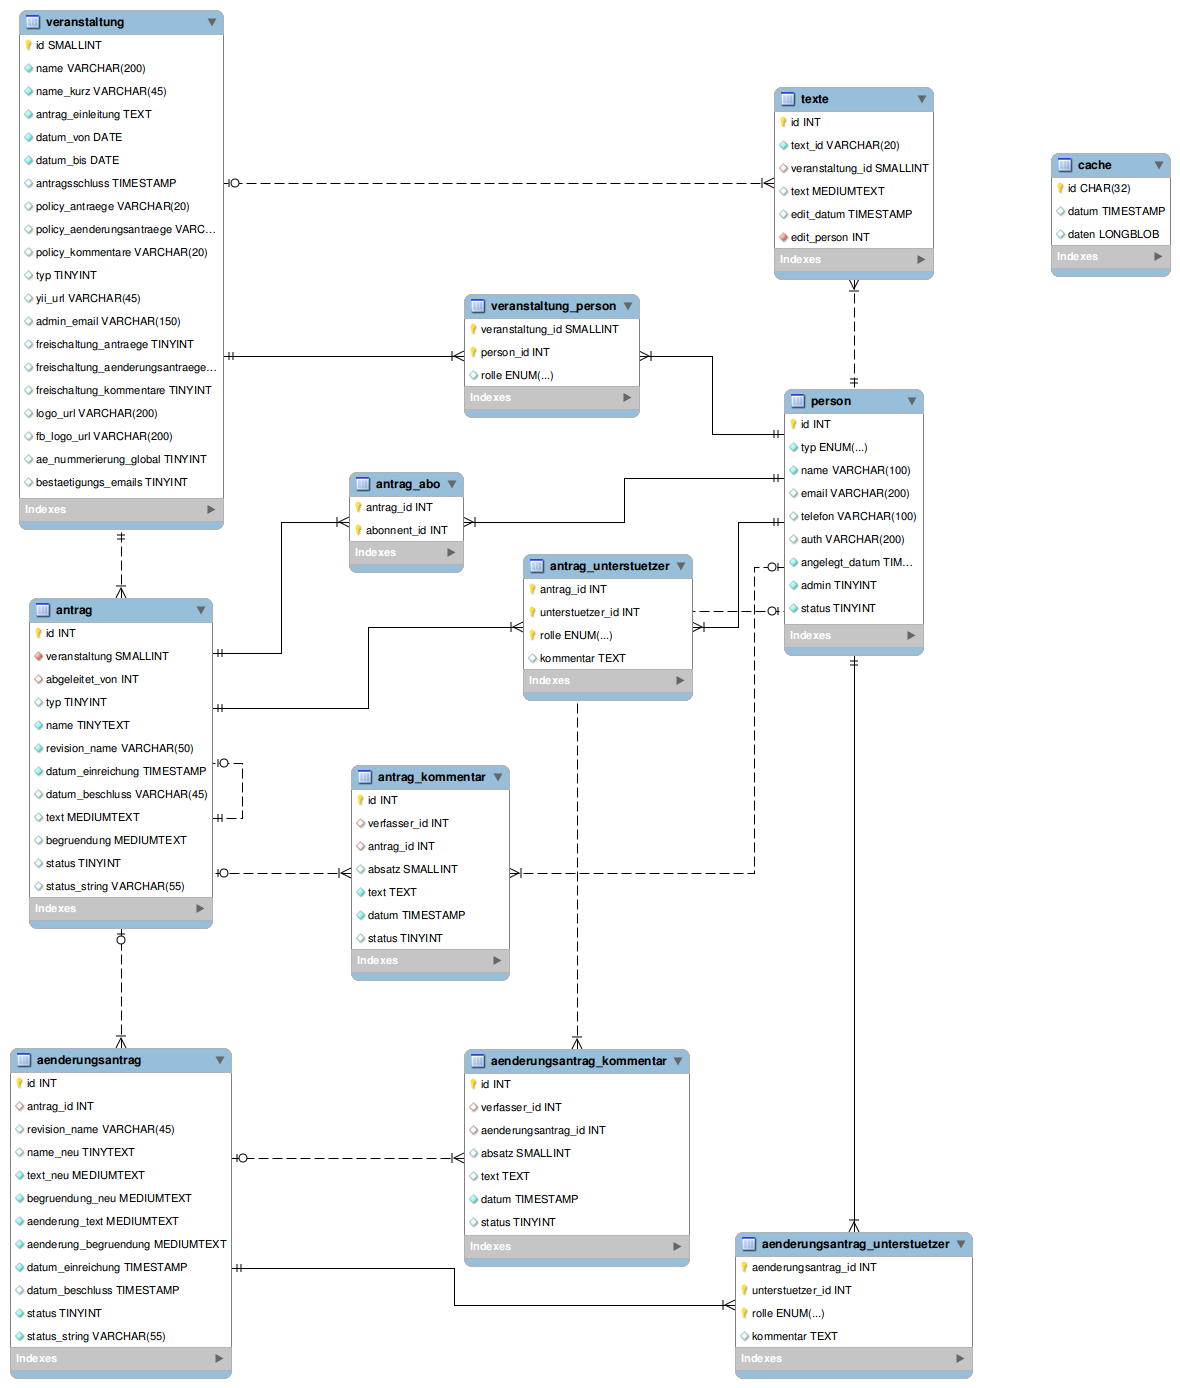
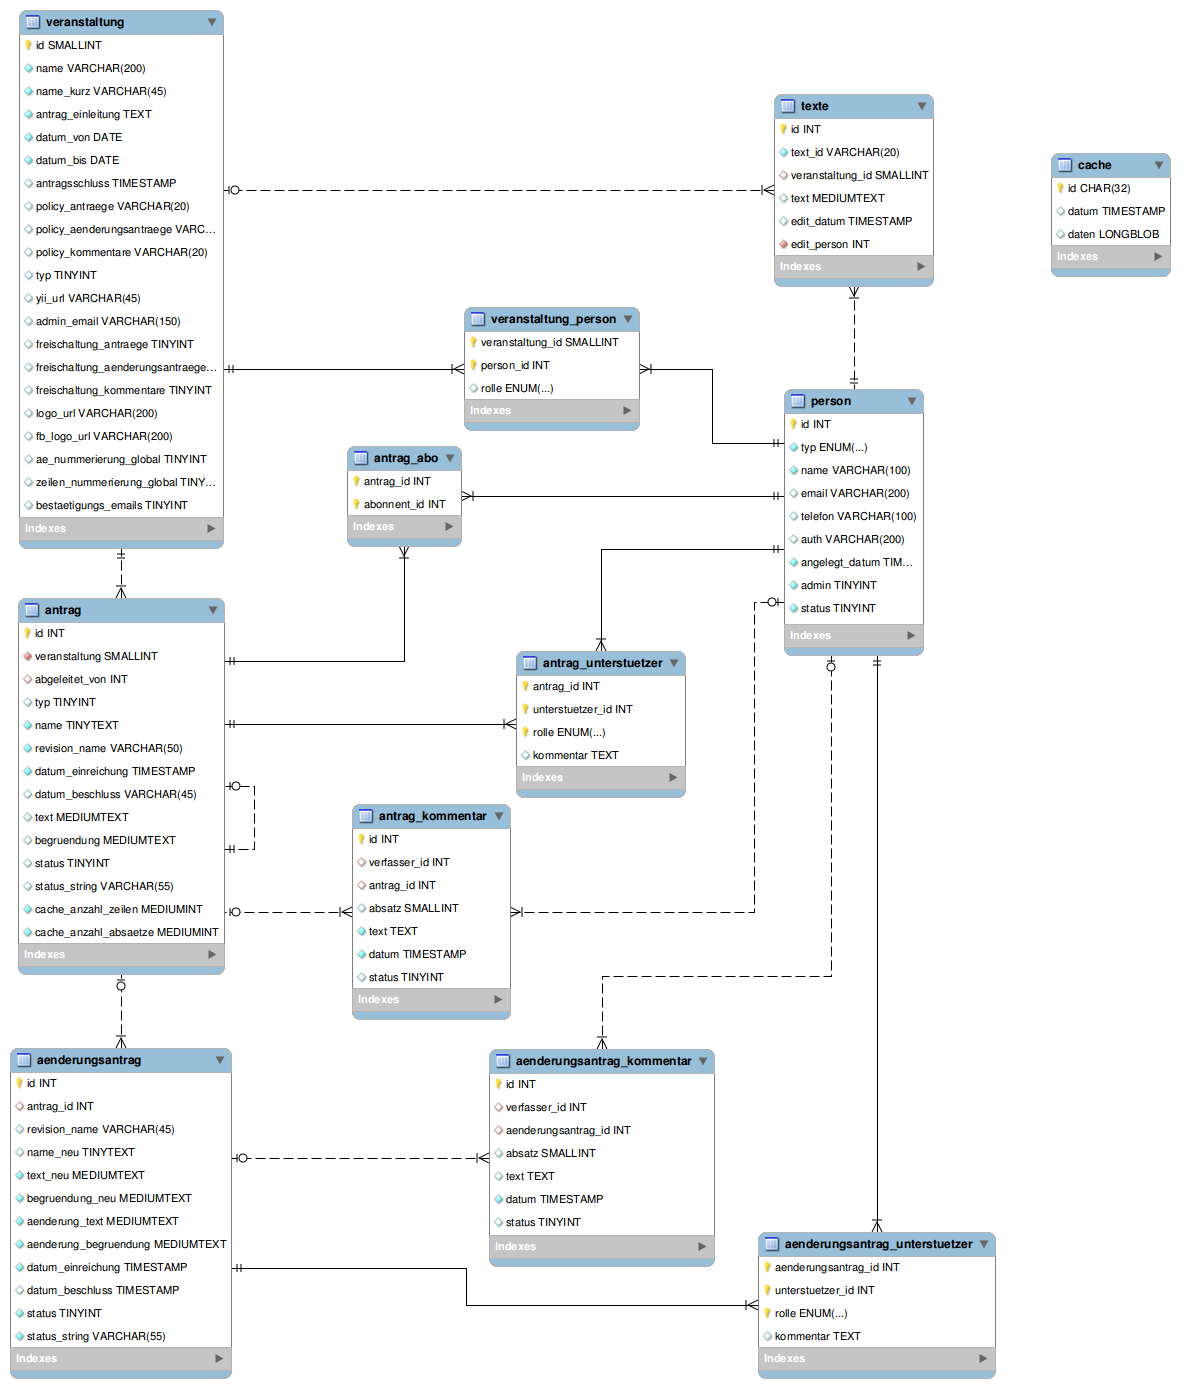
Optional: Durchgehende Zeilennummerierung durch die gesamte Veranstaltung

diff --git a/protected/models/_base/BaseVeranstaltung.php b/protected/models/_base/BaseVeranstaltung.php
@@ -18,7 +18,10 @@
  * @property integer $freischaltung_aenderungsantraege
  * @property integer $freischaltung_kommentare
  * @property integer $ae_nummerierung_global
+ * @property integer $zeilen_nummerierung_global
  * @property integer $bestaetigungs_emails
+ * @property string $logo_url
+ * @property string $fb_logo_url
  *
  * @property Antrag[] $antraege
  * @property VeranstaltungPerson[] $veranstaltung_personen
@@ -50,12 +53,12 @@ abstract class BaseVeranstaltung extends GxActiveRecord
 	public function rules()
 	{
 		return array(
-			array('name, freischaltung_antraege, yii_url, freischaltung_aenderungsantraege, freischaltung_kommentare, policy_antraege, policy_aenderungsantraege, policy_kommentare, typ, ae_nummerierung_global, bestaetigungs_emails', 'required'),
+			array('name, freischaltung_antraege, yii_url, freischaltung_aenderungsantraege, freischaltung_kommentare, policy_antraege, policy_aenderungsantraege, policy_kommentare, typ, ae_nummerierung_global, zeilen_nummerierung_global, bestaetigungs_emails', 'required'),
 			array('name, logo_url, fb_logo_url', 'length', 'max' => 200),
 			array('name_kurz, yii_url', 'length', 'max' => 45),
 			array('antragsschluss, antrag_einleitung, admin_email', 'safe'),
 			array('antragsschluss', 'default', 'setOnEmpty' => true, 'value' => null),
-			array('id, name, yii_url, logo_url, fb_logo_url, freischaltung_antraege, name_kurz, antrag_einleitung, datum_von, datum_bis, antragsschluss, policy_antraege, policy_aenderungsantraege, policy_kommentare, typ, ae_nummerierung_global, bestaetigungs_emails', 'safe', 'on' => 'search'),
+			array('id, name, yii_url, logo_url, fb_logo_url, freischaltung_antraege, name_kurz, antrag_einleitung, datum_von, datum_bis, antragsschluss, policy_antraege, policy_aenderungsantraege, policy_kommentare, typ, ae_nummerierung_global, zeilen_nummerierung_global, bestaetigungs_emails', 'safe', 'on' => 'search'),
 		);
 	}
 
@@ -100,6 +103,7 @@ abstract class BaseVeranstaltung extends GxActiveRecord
 			'veranstaltung_personen'           => null,
 			'texte'                            => null,
 			'ae_nummerierung_global'           => Yii::t('app', 'ÄA-Nummerierung für die ganze Veranstaltung'),
+			'zeilen_nummerierung_global'       => Yii::t('app', 'Zeilennummerierung durchgehend für die ganze Veranstaltung'),
 			'bestaetigungs_emails'             => Yii::t('app', 'Bestätigungsmails an AntragsStellerInnen'),
 		);
 	}

diff --git a/protected/controllers/AntragController.php b/protected/controllers/AntragController.php
@@ -10,7 +10,7 @@ class AntragController extends AntragsgruenController
 		$antrag = Antrag::model()->findByPk($antrag_id);
 		if (is_null($antrag)) {
 			Yii::app()->user->setFlash("error", "Der angegebene Antrag wurde nicht gefunden.");
-			$this->redirect("/");
+			$this->redirect($this->createUrl("site/veranstaltung"));
 		}
 		$this->veranstaltung = $this->loadVeranstaltung($veranstaltung_id, $antrag);
 
@@ -156,7 +156,7 @@ class AntragController extends AntragsgruenController
 		$antrag = Antrag::model()->findByPk($antrag_id);
 		if (is_null($antrag)) {
 			Yii::app()->user->setFlash("error", "Der angegebene Antrag wurde nicht gefunden.");
-			$this->redirect("/");
+			$this->redirect($this->createUrl("site/veranstaltung"));
 		}
 
 		$this->veranstaltung = $this->loadVeranstaltung($veranstaltung_id, $antrag);
@@ -178,7 +178,7 @@ class AntragController extends AntragsgruenController
 		$antrag = Antrag::model()->findByPk($antrag_id);
 		if (is_null($antrag)) {
 			Yii::app()->user->setFlash("error", "Der angegebene Antrag wurde nicht gefunden.");
-			$this->redirect("/");
+			$this->redirect($this->createUrl("site/veranstaltung"));
 		}
 
 		$this->veranstaltung = $this->loadVeranstaltung($veranstaltung_id, $antrag);
@@ -214,7 +214,7 @@ class AntragController extends AntragsgruenController
 		$antrag = Antrag::model()->findByPk($antrag_id);
 		if (is_null($antrag)) {
 			Yii::app()->user->setFlash("error", "Der angegebene Antrag wurde nicht gefunden.");
-			$this->redirect("/");
+			$this->redirect($this->createUrl("site/veranstaltung"));
 		}
 
 		$this->veranstaltung = $this->loadVeranstaltung($veranstaltung_id, $antrag);
@@ -298,10 +298,6 @@ class AntragController extends AntragsgruenController
 		foreach ($antrag->antragUnterstuetzer as $unt) {
 			if ($unt->rolle == IUnterstuetzer::$ROLLE_INITIATOR) $antragstellerin = $unt->unterstuetzer;
 			if ($unt->rolle == IUnterstuetzer::$ROLLE_UNTERSTUETZER) $model_unterstuetzer[] = $unt->unterstuetzer;
-		}
-
-		while (count($model_unterstuetzer) < 15) {
-			$model_unterstuetzer[] = array("typ" => Person::$TYP_PERSON, "name" => "");
 		}
 
 		$this->render('bearbeiten_form', array(

diff --git a/protected/models/Antrag.php b/protected/models/Antrag.php
@@ -75,6 +75,26 @@ class Antrag extends BaseAntrag
 		return $rules_neu;
 	}
 
+	/**
+	 * @return int
+	 */
+	public function getFirstLineNo() {
+		$erste_zeile = 1;
+		if ($this->veranstaltung0->zeilen_nummerierung_global) {
+			$antraege = $this->veranstaltung0->antraegeSortiert();
+			$found = false;
+			foreach ($antraege as $antraege2) foreach ($antraege2 as $antrag) if (!$found) {
+				/** @var Antrag $antrag */
+				if ($antrag->id == $this->id) {
+					$found = true;
+				} else {
+					$erste_zeile += $antrag->cache_anzahl_zeilen;
+				}
+			}
+		}
+		return $erste_zeile;
+	}
+
 
 	/**
 	 * @param bool $nurfreigeschaltete
@@ -93,7 +113,9 @@ class Antrag extends BaseAntrag
 		}
 		$komms = $this->antragKommentare;
 
-		HtmlBBcodeUtils::initZeilenCounter();
+		$erste_zeile = $this->getFirstLineNo();
+
+		HtmlBBcodeUtils::initZeilenCounter($erste_zeile);
 		$arr = HtmlBBcodeUtils::bbcode2html_absaetze(trim($this->text), $praesentations_hacks);
 		for ($i = 0; $i < count($arr["html"]); $i++) {
 			$html_plain       = HtmlBBcodeUtils::wrapWithTextClass($arr["html_plain"][$i]);
@@ -200,6 +222,15 @@ class Antrag extends BaseAntrag
 		return Antrag::model()->findAll("(`text` LIKE '%" . addslashes($suchbegriff) . "%' OR `begruendung` LIKE '%" . addslashes($suchbegriff) . "%') AND status NOT IN (" . implode(", ", IAntrag::$STATI_UNSICHTBAR) . ")");
 	}
 
+
+	public function save($runValidation = true, $attributes = null) {
+		HtmlBBcodeUtils::initZeilenCounter();
+		list($anzahl_absaetze, $anzahl_zeilen) = HtmlBBcodeUtils::getBBCodeStats(trim($this->text));
+		$this->cache_anzahl_absaetze = $anzahl_absaetze;
+		$this->cache_anzahl_zeilen = $anzahl_zeilen;
+		return parent::save($runValidation, $attributes);
+	}
+
 	/*
 	public function getRelationLabel($relationName, $n = null, $useRelationLabel = true) {
 		if ($relationName == "abonnenten") return Yii::t('app', ($n == 1 ? 'AbonnentIn' : 'AbonnentInnen'));
@@ -208,15 +239,6 @@ class Antrag extends BaseAntrag
 	}
 	*/
 
-	/**
-	 * @param $attribute
-	 * @param $params
-	 */
-	public function checkUnterstuetzer($attribute, $params)
-	{
-		var_dump($params);
-		echo "!";
-	}
 
 
 }

diff --git a/protected/controllers/AenderungsantragController.php b/protected/controllers/AenderungsantragController.php
@@ -14,7 +14,7 @@ class AenderungsantragController extends AntragsgruenController
 		$aenderungsantrag = Aenderungsantrag::model()->findByPk($aenderungsantrag_id);
 		if (is_null($aenderungsantrag)) {
 			Yii::app()->user->setFlash("error", "Der angegebene Änderungsantrag wurde nicht gefunden.");
-			$this->redirect("/");
+			$this->redirect($this->createUrl("site/veranstaltung"));
 		}
 
 		$antrag_id = IntVal($antrag_id);
@@ -22,7 +22,7 @@ class AenderungsantragController extends AntragsgruenController
 		$antrag = Antrag::model()->findByPk($antrag_id);
 		if (is_null($antrag)) {
 			Yii::app()->user->setFlash("error", "Der angegebene Antrag wurde nicht gefunden.");
-			$this->redirect("/");
+			$this->redirect($this->createUrl("site/veranstaltung"));
 		}
 
 		$this->veranstaltung = $this->loadVeranstaltung($veranstaltung_id, $antrag, $aenderungsantrag);
@@ -39,7 +39,7 @@ class AenderungsantragController extends AntragsgruenController
 
 		if (!$aenderungsantrag) {
 			Yii::app()->user->setFlash("error", "Eine ungültige URL wurde aufgerufen");
-			$this->redirect("/");
+			$this->redirect($this->createUrl("site/veranstaltung"));
 		}
 
 		if (AntiXSS::isTokenSet("komm_del")) {
@@ -375,7 +375,7 @@ class AenderungsantragController extends AntragsgruenController
 				$diff_text = "";
 
 				if ($aenderungsantrag->name_neu != $antrag->name) $diff_text .= "Neuer Titel des Antrags:\n[QUOTE]" . $aenderungsantrag->name_neu . "[/QUOTE]\n\n";
-				$diff_text .= DiffUtils::diff2text($diff);
+				$diff_text .= DiffUtils::diff2text($diff, $antrag->getFirstLineNo());
 
 				$aenderungsantrag->aenderung_text    = $diff_text;
 				$aenderungsantrag->datum_einreichung = new CDbExpression('NOW()');

diff --git a/protected/views/admin/veranstaltungen/_form.php b/protected/views/admin/veranstaltungen/_form.php
@@ -148,6 +148,11 @@ $form = $this->beginWidget('GxActiveForm', array(
 	<label style="display: inline;"><input type="radio" name="Veranstaltung[ae_nummerierung_global]" value="1" <?php if ($model->ae_nummerierung_global == 1) echo "checked"; ?>> Ja</label> &nbsp; &nbsp;
 </div>
 <div>
+	<?php echo $form->labelEx($model, 'zeilen_nummerierung_global'); ?>
+	<label style="display: inline;"><input type="radio" name="Veranstaltung[zeilen_nummerierung_global]" value="0" <?php if ($model->zeilen_nummerierung_global != 1) echo "checked"; ?>> Nein</label> &nbsp; &nbsp;
+	<label style="display: inline;"><input type="radio" name="Veranstaltung[zeilen_nummerierung_global]" value="1" <?php if ($model->zeilen_nummerierung_global == 1) echo "checked"; ?>> Ja</label> &nbsp; &nbsp;
+</div>
+<div>
 	<?php echo $form->labelEx($model, 'bestaetigungs_emails'); ?>
 	<label style="display: inline;"><input type="radio" name="Veranstaltung[bestaetigungs_emails]" value="0" <?php if ($model->bestaetigungs_emails != 1) echo "checked"; ?>> Nein</label> &nbsp; &nbsp;
 	<label style="display: inline;"><input type="radio" name="Veranstaltung[bestaetigungs_emails]" value="1" <?php if ($model->bestaetigungs_emails == 1) echo "checked"; ?>> Ja</label> &nbsp; &nbsp;

diff --git a/protected/models/_base/BaseAntrag.php b/protected/models/_base/BaseAntrag.php
@@ -21,6 +21,8 @@
  * @property string $begruendung
  * @property integer $status
  * @property string $status_string
+ * @property integer $cache_anzahl_zeilen
+ * @property integer $cache_anzahl_absaetze
  *
  * @property Aenderungsantrag[] $aenderungsantraege
  * @property Veranstaltung $veranstaltung0
@@ -57,7 +59,7 @@ abstract class BaseAntrag extends IAntrag {
 			array('status_string', 'length', 'max'=>55),
 			array('text, begruendung', 'safe'),
 			array('abgeleitet_von, typ, datum_beschluss, text, begruendung, status, status_string', 'default', 'setOnEmpty' => true, 'value' => null),
-			array('id, veranstaltung, abgeleitet_von, typ, name, revision_name, datum_einreichung, datum_beschluss, text, begruendung, status, status_string', 'safe', 'on'=>'search'),
+			array('id, veranstaltung, abgeleitet_von, typ, name, revision_name, datum_einreichung, datum_beschluss, text, begruendung, status, cache_anzahl_zeilen, cache_anzahl_, status_string', 'safe', 'on'=>'search'),
 		);
 	}
 

diff --git a/protected/models/Veranstaltung.php b/protected/models/Veranstaltung.php
@@ -149,6 +149,27 @@ class Veranstaltung extends BaseVeranstaltung
 	}
 
 	/**
+	 * @return array|array[]
+	 */
+	public function antraegeSortiert() {
+		$antraege        = $this->antraege;
+		$antraege_sorted = array();
+		// $warnung         = false;
+		foreach ($antraege as $ant) if (!in_array($ant->status, IAntrag::$STATI_UNSICHTBAR)) {
+			if (!isset($antraege_sorted[Antrag::$TYPEN[$ant->typ]])) $antraege_sorted[Antrag::$TYPEN[$ant->typ]] = array();
+			$key = $ant->revision_name;
+			/*
+			if (isset($antraege_sorted[Antrag::$TYPEN[$ant->typ]][$key]) && !$warnung) {
+				$warnung = true;
+				Yii::app()->user->setFlash("error", "Es können nicht alle Anträge angezeigt werden, da mindestens ein Kürzel ($key) mehrfach vergeben ist.");
+			}
+			*/
+			$antraege_sorted[Antrag::$TYPEN[$ant->typ]][$key] = $ant;
+		}
+		return $antraege_sorted;
+	}
+
+	/**
 	 * @param Person $person
 	 * @return bool
 	 */

diff --git a/protected/controllers/SiteController.php b/protected/controllers/SiteController.php
@@ -261,19 +261,7 @@ class SiteController extends AntragsgruenController
 			}
 		}
 
-		/** @var array|Antrag[] $antraege */
-		$antraege        = $veranstaltung->antraege;
-		$antraege_sorted = array();
-		$warnung         = false;
-		foreach ($antraege as $ant) {
-			if (!isset($antraege_sorted[Antrag::$TYPEN[$ant->typ]])) $antraege_sorted[Antrag::$TYPEN[$ant->typ]] = array();
-			$key = $ant->revision_name;
-			if (isset($antraege_sorted[Antrag::$TYPEN[$ant->typ]][$key]) && !$warnung) {
-				$warnung = true;
-				Yii::app()->user->setFlash("error", "Es können nicht alle Anträge angezeigt werden, da mindestens ein Kürzel ($key) mehrfach vergeben ist.");
-			}
-			$antraege_sorted[Antrag::$TYPEN[$ant->typ]][$key] = $ant;
-		}
+		$antraege_sorted = $veranstaltung->antraegeSortiert();
 
 		/** @var null|Person $ich */
 		if (Yii::app()->user->isGuest) $ich = null;

diff --git a/protected/components/HtmlBBcodeUtils.php b/protected/components/HtmlBBcodeUtils.php
@@ -8,11 +8,11 @@ class HtmlBBcodeUtils
 	public static $zeilen_counter = 0;
 
 	/**
-	 *
+	 * @param int $init
 	 */
-	public static function initZeilenCounter()
+	public static function initZeilenCounter($init = 1)
 	{
-		self::$zeilen_counter = 1;
+		self::$zeilen_counter = $init;
 	}
 
 	/**
@@ -110,6 +110,20 @@ class HtmlBBcodeUtils
 		}
 
 		return $return;
+	}
+
+	/**
+	 * @param string $text
+	 * @return array|int[]
+	 */
+	static function getBBCodeStats($text) {
+		static::initZeilenCounter(1);
+		$absaetze = static::bbcode2html_absaetze($text);
+		$strs = $absaetze["html"];
+		preg_match_all("/<span class='zeilennummer'>([0-9]+)<\/span>/siu", $strs[count($strs) - 1], $matches);
+		$anzahl_absaetze = count($strs);
+		$anzahl_zeilen = $matches[1][count($matches[1]) - 1];
+		return array($anzahl_absaetze, $anzahl_zeilen);
 	}
 
 	/**

diff --git a/protected/components/DiffUtils.php b/protected/components/DiffUtils.php
@@ -34,13 +34,14 @@ class DiffUtils
 	/**
 	 * @static
 	 * @param Horde_Text_Diff $diff
+	 * @param int $first_line_no
 	 * @return string
 	 */
-	public static function diff2text($diff)
+	public static function diff2text($diff, $first_line_no = 1)
 	{
 		$diff_text2 = "";
 		$edits      = $diff->getDiff();
-		$line       = 0;
+		$line       = $first_line_no - 1;
 
 		foreach ($edits as $edit) {
 			if (get_class($edit) == "Horde_Text_Diff_Op_Add") {
@@ -88,6 +89,11 @@ class DiffUtils
 		return $diff_text2;
 	}
 
+	/**
+	 * @param string $string1
+	 * @param string $string2
+	 * @return Horde_Text_Diff
+	 */
 	public static function getTextDiffMitZeilennummern($string1 = "", $string2 = "")
 	{
 		HtmlBBcodeUtils::initZeilenCounter();

diff --git a/protected/views/antrag/pdf.php b/protected/views/antrag/pdf.php
@@ -122,7 +122,8 @@ $pdf->SetFont("Courier", "", 10);
 $pdf->Ln(8);
 
 
-$linenr = 1;
+$linenr = $model->getFirstLineNo();
+
 
 foreach ($absae as $i=>$abs) {
 	/** @var AntragAbsatz $abs */
